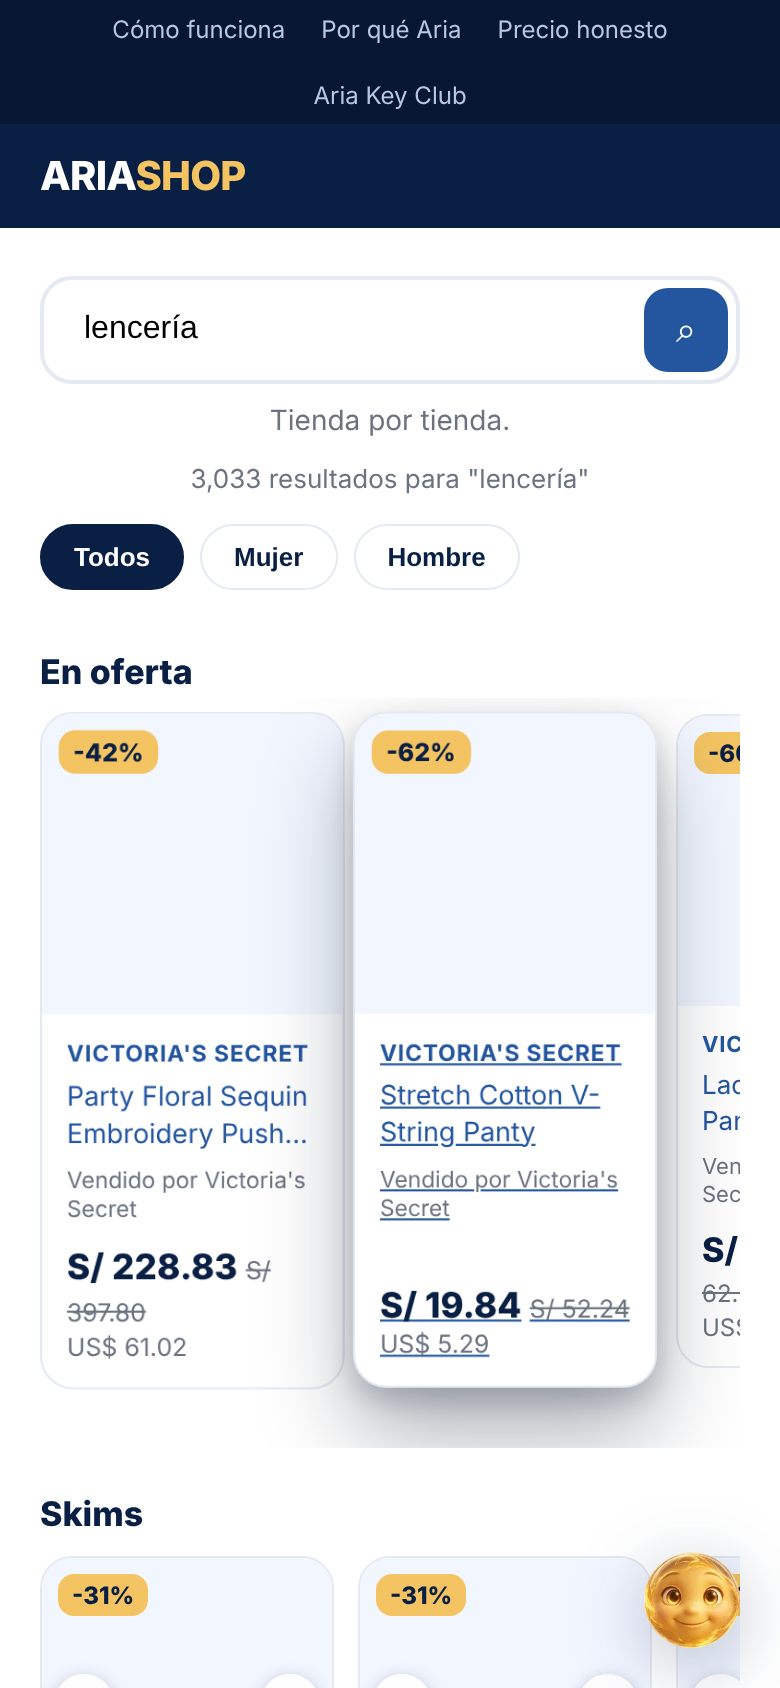
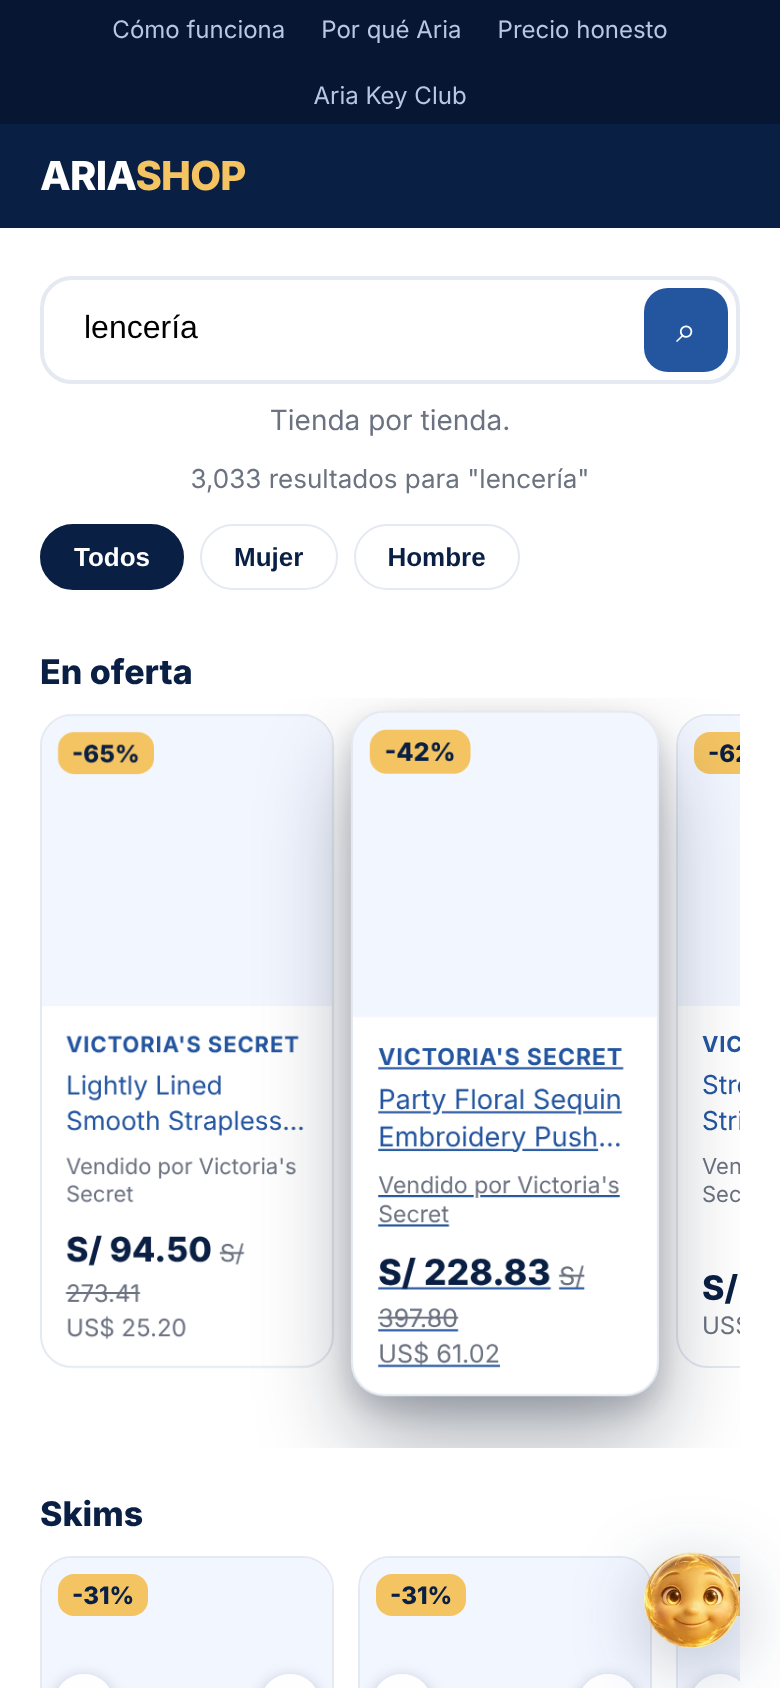
Search #534 round 3: scoped answers cache apart; store rows keep coarse stores
Lucifer's two blockers (#443 c.6513049594):
- Netlify-Vary was query=q|page, so the CDN served the first cached,
  unscoped page to every Hombre/Mujer/Ninos tap and every store "Ver mas".
  It now varies on aud, tienda and grid too.
- Walmart's lencería row was missing: its 160 matches (boxer briefs, bras)
  are filed under coarse departments ("mens", "clothing") that the
  top-100 aisle test never reaches. Store rows now use their own aisle,
  any department with 1% of the whole answer, so true per-store totals
  reach the page; stray matches (Former Doll tees) stay out.
Endpoint grid checks ask for the grid (grid=1), as «Ver todos» does.

Claude-Session: https://claude.ai/code/session_01WBGm789mHS7HxvsUJLot6y

diff --git a/netlify/functions/_search-core.js b/netlify/functions/_search-core.js
@@ -514,6 +514,19 @@ function aisleOf(hits) {
   }
   return (p) => keep.has((p.departments && p.departments[0]) || "");
 }
+/* The store rows' aisle is wider: every department with 1% of the whole
+   answer. A row is a store's TRUE total for the term (Danny,
+   c.6512540192), and a coarse store files by gender -- Walmart's 158
+   «lencería» matches sit in "mens", a department the top 100 never
+   reaches (Lucifer, #443 c.6513049594). The stray match ("Former Doll"
+   tees under dolls) is still well under 1%. */
+const ROW_AISLE_SHARE = 0.01;
+function rowAisleOf(hits) {
+  const all = new Map(), keep = new Set(NEUTRAL_DEPTS);
+  for (const p of hits) { const d = (p.departments && p.departments[0]) || ""; all.set(d, (all.get(d) || 0) + 1); }
+  for (const [d, c] of all) if (c / hits.length >= ROW_AISLE_SHARE) keep.add(d);
+  return (p) => keep.has((p.departments && p.departments[0]) || "");
+}
 
 /* Quantiles of the aisle's mass-market prices, weighted by demand
    (see bandsOf). Measured on the battery: at the median, "vestidos"
@@ -630,9 +643,10 @@ function storeLanes(ctx, q, hits, extraQs = "") {
      accessible price), the store's own ranking after it: a store whose
      every match is premium (SSENSE) still gets its row. */
   const A0 = annotate(ctx, { hits });
-  /* The query's aisle only, as the Ofertas lane reads it (no "Former Doll"
-     T-shirt under dolls) -- when the aisle holds anything at all. */
-  const inAisle = hits.filter((p) => A0.of(p).aisle);
+  /* The rows' aisle (rowAisleOf: no "Former Doll" T-shirt under dolls)
+     -- when the aisle holds anything at all. */
+  const rowAisle = rowAisleOf(hits);
+  const inAisle = hits.filter(rowAisle);
   if (inAisle.length) hits = inAisle;
   const A = A0;
   const byStore = new Map();

diff --git a/netlify/functions/search.js b/netlify/functions/search.js
@@ -85,9 +85,11 @@ const json = (statusCode, body, cache) => ({
       ? {
           "Cache-Control": "public, max-age=300",
           "Netlify-CDN-Cache-Control": cache,
-          /* Only q and page decide the answer; anything else in the URL
-             must not split the cache. */
-          "Netlify-Vary": "query=q|page",
+          /* q, page and the scope (aud, tienda, grid) decide the answer;
+             anything else in the URL must not split the cache. Without
+             the scope keys the CDN served the unscoped page to every
+             pill tap (Lucifer, #443 c.6513049594). */
+          "Netlify-Vary": "query=q|page|aud|tienda|grid",
         }
       : { "Cache-Control": "no-store" }),
   },
